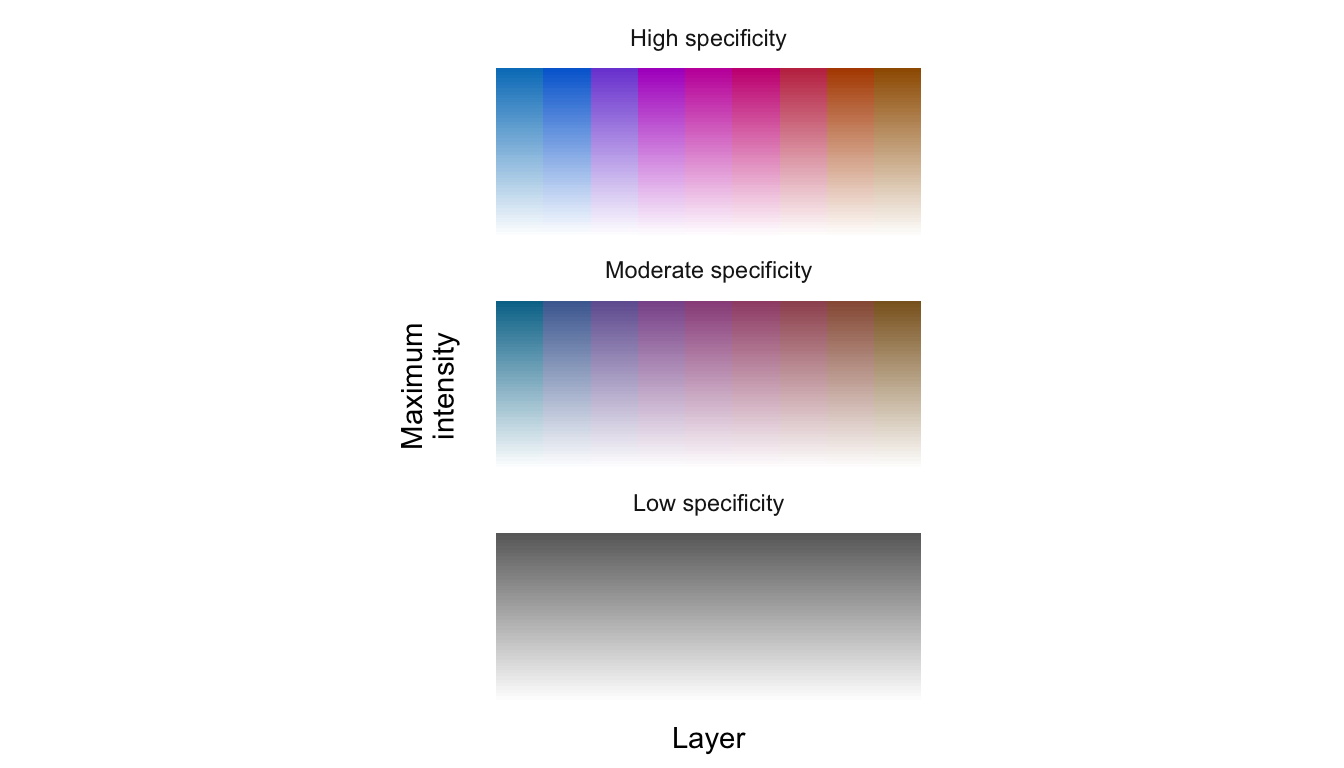
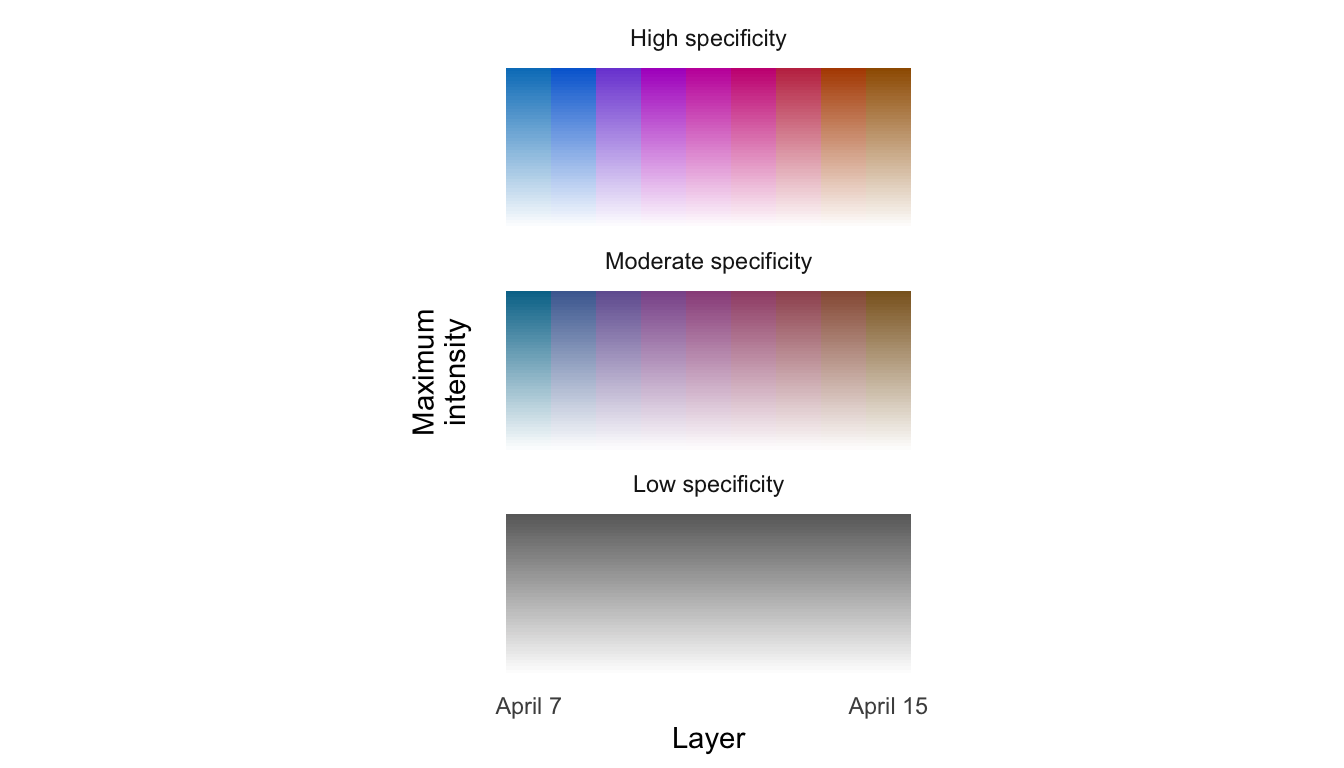
JS edits

diff --git a/docs/articles/tuning.html b/docs/articles/tuning.html
@@ -93,8 +93,7 @@
 <div id="map-monthly-distributions-of-a-species-in-the-southern-hemisphere" class="section level3">
 <h3 class="hasAnchor">
 <a href="#map-monthly-distributions-of-a-species-in-the-southern-hemisphere" class="anchor"></a>Map monthly distributions of a species in the southern hemisphere</h3>
-<p>The sample Field Sparrow data included with <code>colorist</code> describe monthly occurrence probabilities for a partially migratory bird in the eastern United States, but we are going to pretend that they describe monthly distributions of a species that occurs in temperate regions of the southern hemisphere. Our goal is to change the assignments of hues to months so that they better indicate the seasons experienced by our hypothetical species.</p>
-<p>To begin, we calculate distribution metrics with <code><a href="../reference/metrics_pull.html">metrics_pull()</a></code> and adopt the default HCL-based color palette provided by <code><a href="../reference/palette_timecycle.html">palette_timecycle()</a></code>. Then we visualize our monthly distribution data using the <code><a href="../reference/map_multiples.html">map_multiples()</a></code> function.</p>
+<p>The sample Field Sparrow data included with <code>colorist</code> describe monthly occurrence probabilities for a partially migratory bird in the eastern United States. We can explore the data visually by calculating distribution metrics with <code><a href="../reference/metrics_pull.html">metrics_pull()</a></code>, adopting the default HCL-based color palette provided by <code><a href="../reference/palette_timecycle.html">palette_timecycle()</a></code>, and mapping each of the data layers using the <code><a href="../reference/map_multiples.html">map_multiples()</a></code> function.</p>
 <div class="sourceCode" id="cb1"><html><body><pre class="r"><span class="fu"><a href="https://rdrr.io/r/base/library.html">library</a></span>(<span class="no">colorist</span>)
 <span class="fu"><a href="https://rdrr.io/r/base/library.html">library</a></span>(<span class="no">ggplot2</span>)
 <span class="fu"><a href="https://rdrr.io/r/base/library.html">library</a></span>(<span class="no">RColorBrewer</span>)
@@ -104,8 +103,9 @@
 <span class="no">p1</span> <span class="kw">&lt;-</span> <span class="fu"><a href="../reference/palette_timecycle.html">palette_timecycle</a></span>(<span class="fl">12</span>)
 <span class="fu"><a href="../reference/map_multiples.html">map_multiples</a></span>(<span class="no">m1</span>, <span class="no">p1</span>, <span class="kw">labels</span> <span class="kw">=</span> <span class="fu"><a href="https://rdrr.io/r/base/names.html">names</a></span>(<span class="no">fiespa_occ</span>), <span class="kw">ncol</span> <span class="kw">=</span> <span class="fl">4</span>)</pre></body></html></div>
 <p><img src="tuning_files/figure-html/hues-fiespa-default-1.png" width="\textwidth" style="display: block; margin: auto;"></p>
-<p>The default settings for <code><a href="../reference/palette_timecycle.html">palette_timecycle()</a></code> produce a palette of hues that begins at “blue” in January and moves progressively toward “green”, “yellow”, and “red”, before returning toward “blue”. These hues align with our general sense of seasonal progression in northern temperate regions, where we move from winter toward spring, summer, fall, and back to winter. The timing of the seasons does not make sense for a species that occurs in southern temperate regions, however.</p>
-<p>We can change the alignment of hues and months in <code><a href="../reference/palette_timecycle.html">palette_timecycle()</a></code>, while retaining the sequence of seasons, by adjusting the <code>start_hue</code> argument. All we have to do is specify a value of 60 rather than accept the default value of 240. This change tells <code><a href="../reference/palette_timecycle.html">palette_timecycle()</a></code> to begin assigning hues to layers on the opposite side of the color wheel, 180 degrees, and six months away, from the default setting.</p>
+<p>The default settings for <code><a href="../reference/palette_timecycle.html">palette_timecycle()</a></code> produce a palette of hues that begins at “blue” in January and moves progressively toward “green”, “yellow”, and “red”, before returning toward “blue”. These hues align with our general sense of seasonal progression in northern temperate regions, where we move from “winter” toward “spring”, “summer”, “fall”, and back to “winter”.</p>
+<p>Now, let us assume that our bird species actually occurs in temperate regions of the southern hemisphere. The timing of seasonal progression is offset by approximately six months from northern temperate regions. Clearly, the default settings in <code><a href="../reference/palette_timecycle.html">palette_timecycle()</a></code> are no longer appropriate because the hues indicating particular seasons are not aligned with the correct months.</p>
+<p>To realign seasonal hues and months for a southern temperate species, we need to modify the <code>start_hue</code> argument in <code><a href="../reference/palette_timecycle.html">palette_timecycle()</a></code>. So, we specify a value of 60 rather than accept the default value of 240. This change tells <code><a href="../reference/palette_timecycle.html">palette_timecycle()</a></code> to begin assigning hues to layers on the opposite side of the color wheel, 180 degrees, and six months away, from the default setting.</p>
 <div class="sourceCode" id="cb2"><html><body><pre class="r"><span class="co"># change palette start position on color wheel</span>
 <span class="no">p1_custom</span> <span class="kw">&lt;-</span> <span class="fu"><a href="../reference/palette_timecycle.html">palette_timecycle</a></span>(<span class="fl">12</span>, <span class="kw">start_hue</span> <span class="kw">=</span> <span class="fl">60</span>)
 
@@ -122,16 +122,14 @@
 <div class="sourceCode" id="cb3"><html><body><pre class="r"><span class="co"># pull metrics, generate default palette, map layers</span>
 <span class="no">m2</span> <span class="kw">&lt;-</span> <span class="fu"><a href="../reference/metrics_pull.html">metrics_pull</a></span>(<span class="no">elephant_ud</span>)
 <span class="no">p2</span> <span class="kw">&lt;-</span> <span class="fu"><a href="../reference/palette_set.html">palette_set</a></span>(<span class="fl">2</span>)
-<span class="fu"><a href="../reference/map_multiples.html">map_multiples</a></span>(<span class="no">m2</span>, <span class="no">p2</span>, <span class="kw">labels</span> <span class="kw">=</span> <span class="fu"><a href="https://rdrr.io/r/base/c.html">c</a></span>(<span class="st">"'Purple People-eater'"</span>,
-                                 <span class="st">"'Jolly Green Giant'"</span>), <span class="kw">ncol</span> <span class="kw">=</span> <span class="fl">2</span>)</pre></body></html></div>
+<span class="fu"><a href="../reference/map_multiples.html">map_multiples</a></span>(<span class="no">m2</span>, <span class="no">p2</span>, <span class="kw">labels</span> <span class="kw">=</span> <span class="fu"><a href="https://rdrr.io/r/base/c.html">c</a></span>(<span class="st">"'Purple People-eater'"</span>, <span class="st">"'Jolly Green Giant'"</span>), <span class="kw">ncol</span> <span class="kw">=</span> <span class="fl">2</span>)</pre></body></html></div>
 <p><img src="tuning_files/figure-html/hues-elephant-default-1.png" width="\textwidth" style="display: block; margin: auto;"></p>
-<p>To communicate a coherent signal of identity across the labels and the maps, we need to override the default hue settings in <code><a href="../reference/palette_set.html">palette_set()</a></code>. We can achieve this by providing the <code>custom_hues</code> argument with a vector of integers indicating where on a rainbow color wheel the function should sample hues. “Purple” hues are found near 280 and “greens” are found near 120, so we specify those values in the appropriate order and visualize our adjustments.</p>
+<p>To communicate a consistent signal of identity across the labels and the maps, we need to override the default hue settings in <code><a href="../reference/palette_set.html">palette_set()</a></code>. We can achieve this by providing the <code>custom_hues</code> argument with a vector of integers indicating where on a rainbow color wheel the function should sample hues. “Purple” hues are found near 280 and “greens” are found near 120, so we specify those values in the appropriate order and visualize our adjustments.</p>
 <div class="sourceCode" id="cb4"><html><body><pre class="r"><span class="co"># use custom_hues argument to make specific hue choices</span>
 <span class="no">p2_custom</span> <span class="kw">&lt;-</span> <span class="fu"><a href="../reference/palette_set.html">palette_set</a></span>(<span class="fl">2</span>, <span class="kw">custom_hues</span> <span class="kw">=</span> <span class="fu"><a href="https://rdrr.io/r/base/c.html">c</a></span>(<span class="fl">280</span>, <span class="fl">120</span>))
 
 <span class="co"># map layers</span>
-<span class="fu"><a href="../reference/map_multiples.html">map_multiples</a></span>(<span class="no">m2</span>, <span class="no">p2_custom</span>, <span class="kw">labels</span> <span class="kw">=</span> <span class="fu"><a href="https://rdrr.io/r/base/c.html">c</a></span>(<span class="st">"'Purple People-eater'"</span>,
-                                        <span class="st">"'Jolly Green Giant'"</span>), <span class="kw">ncol</span> <span class="kw">=</span> <span class="fl">2</span>)</pre></body></html></div>
+<span class="fu"><a href="../reference/map_multiples.html">map_multiples</a></span>(<span class="no">m2</span>, <span class="no">p2_custom</span>, <span class="kw">labels</span> <span class="kw">=</span> <span class="fu"><a href="https://rdrr.io/r/base/c.html">c</a></span>(<span class="st">"'Purple People-eater'"</span>, <span class="st">"'Jolly Green Giant'"</span>), <span class="kw">ncol</span> <span class="kw">=</span> <span class="fl">2</span>)</pre></body></html></div>
 <p><img src="tuning_files/figure-html/hues-elephant-custom-1.png" width="\textwidth" style="display: block; margin: auto;"></p>
 <p>The result: cognitive harmony.</p>
 </div>
@@ -139,7 +137,7 @@
 <div id="change-the-relationship-between-intensity-and-opacity" class="section level2">
 <h2 class="hasAnchor">
 <a href="#change-the-relationship-between-intensity-and-opacity" class="anchor"></a>2. Change the relationship between intensity and opacity</h2>
-<p>The second type of adjustment we explore involves changing the relationship between intensity and opacity values, a modification that can be made in the <code><a href="../reference/map_single.html">map_single()</a></code> and <code>map_multiple()</code> functions.</p>
+<p>The second type of adjustment we explore involves changing the relationship between intensity and opacity values, a modification that can be made in the <code><a href="../reference/map_single.html">map_single()</a></code> and <code><a href="../reference/map_multiples.html">map_multiples()</a></code> functions.</p>
 <p>There are a variety of contexts in which it is difficult to visualize important information about populations or individuals because intensity values (i.e., relative abundance, occurrence, or probability density values) have unusual distributions. For example, it can be difficult to indicate the extent to which a species or individual uses an entire landscape when changing availability of resources or inconsistent social interaction causes an extremely skewed distribution of intensity values. Conversely, it can be a challenge to indicate areas of particular importance to species or individuals when they appear at first glance to use an entire landscape relatively evenly.</p>
 <p>Cartographers have developed an array of strategies for modifying how data values are represented in maps, many of which involve binning or transforming data. While there is no right “answer” to the “problem” of visualizing data with an unusual distribution, <code>colorist</code> functions focus on transforming data using a slightly modified <code>scales::modulus()</code> transformation. This decision stems from one of our original goals for the <code>colorist</code> package: to visualize continuous variation in intensity values through space and time without truncating or binning values.</p>
 <p>In <code>colorist</code>, the relationship between intensity and opacity values is controlled with a <code>lambda_i</code> argument in the <code><a href="../reference/map_multiples.html">map_multiples()</a></code> and <code><a href="../reference/map_single.html">map_single()</a></code> functions. The default setting of <code>lambda_i = 0</code> prescribes a linear relationship between intensity and opacity values. Specifying negative values for <code>lambda_i</code> increases the opacity and apparent intensity of cells with moderate intensity values, giving them greater visual weight. Specifying positive values for <code>lambda_i</code> reduces the opacity and apparent intensity of cells with moderate intensity values, thus highlighting cells with high intensity values.</p>
@@ -171,7 +169,7 @@
 <span class="no">p3</span> <span class="kw">&lt;-</span> <span class="fu"><a href="../reference/palette_timeline.html">palette_timeline</a></span>(<span class="no">fisher_ud</span>)
 <span class="fu"><a href="../reference/map_multiples.html">map_multiples</a></span>(<span class="no">m3</span>, <span class="no">p3</span>, <span class="kw">labels</span> <span class="kw">=</span> <span class="fu"><a href="https://rdrr.io/r/base/names.html">names</a></span>(<span class="no">fisher_ud</span>))</pre></body></html></div>
 <p><img src="tuning_files/figure-html/opacity-fisher-default-1.png" width="\textwidth" style="display: block; margin: auto;"></p>
-<p>It is clear that the Fisher is using different parts of its territory to different degrees, within and among nights, but if we want to more clearly understand and illustrate which areas were used most intensively we need to change the relationship between intensity and opacity values. In order to highlight intensively used cells, we provide the <code>lambda_i</code> argument in <code><a href="../reference/map_multiples.html">map_multiples()</a></code> with a positive number rather than accept the default value of 0.</p>
+<p>It is clear that the Fisher is using different parts of its territory to different degrees within and among nights, but if we want to more clearly understand and illustrate which areas were used most intensively we need to change the relationship between intensity and opacity values. In order to highlight intensively used cells, we provide the <code>lambda_i</code> argument in <code><a href="../reference/map_multiples.html">map_multiples()</a></code> with a positive number rather than accept the default value of 0.</p>
 <div class="sourceCode" id="cb8"><html><body><pre class="r"><span class="co"># map layers with adjustment to lambda_i</span>
 <span class="fu"><a href="../reference/map_multiples.html">map_multiples</a></span>(<span class="no">m3</span>, <span class="no">p3</span>, <span class="kw">labels</span> <span class="kw">=</span> <span class="fu"><a href="https://rdrr.io/r/base/names.html">names</a></span>(<span class="no">fisher_ud</span>), <span class="kw">lambda_i</span> <span class="kw">=</span> <span class="fl">12</span>)</pre></body></html></div>
 <p><img src="tuning_files/figure-html/opacity-fisher-custom-1.png" width="\textwidth" style="display: block; margin: auto;"></p>
@@ -182,8 +180,8 @@
 <h2 class="hasAnchor">
 <a href="#change-the-relationship-between-specificity-and-chroma" class="anchor"></a>3. Change the relationship between specificity and chroma</h2>
 <p>The third type of adjustment we explore involves changing the relationship between specificity and chroma values, a modification that can be made in the <code><a href="../reference/map_single.html">map_single()</a></code> function. In mechanical terms, the transformation is nearly identical to the one used for changing the relationship between intensity and opacity values. The visual and narrative impacts are quite different, however.</p>
-<p>Remember that specificity values indicate whether a cell contains similar intensities (low specificity) or dissimilar intensities (high specificity) across raster layers and that variation in specificity values is indicated by varying the chroma of cell colors. Cells with low specificity values are indicated using low chroma values and appear “gray”. Cells with high specificity values are indicated using high chroma values and appear brightly colored.</p>
-<p>Depending on the nature of the data contained in a <code>Rasterstack</code>, specificity values can take on a variety of meanings, including, seasonal use of a cell, ephemeral use of a cell, or differential use of a cell by multiple species or individuals. Thus, changing the relationship between specificity and chroma values can have important consequences for how viewers interpret patterns of spatiotemporal overlap among raster layers.</p>
+<p>Remember that specificity values indicate the degree to which intensity values are unevenly distributed across raster layers and that variation in specificity values is indicated by varying the chroma of cell colors. Low specificity values indicate intensity values are similar in all layers of a cell, are linked to low chroma values, and appear “gray”. High specificity values indicate intensity values are concentrated in a single layer, are linked to high chroma values, and appear as “bright” colors.</p>
+<p>Depending on the nature of the data contained in a <code>Rasterstack</code>, specificity values can take on a variety of meanings, including, seasonal use of a cell, ephemeral use of a cell, or differential use of a cell by multiple species or individuals. Changing the relationship between specificity and chroma values can have important consequences for how viewers interpret patterns of spatiotemporal overlap among raster layers.</p>
 <p>The relationship between specificity and chroma values is controlled with a <code>lambda_s</code> argument in the <code><a href="../reference/map_single.html">map_single()</a></code> function. Again, the default setting of 0 prescribes a linear relationship between specificity and chroma values, analogous to the default relationship between intensity and opacity. Specifying negative values for <code>lambda_s</code> increases the chroma and apparent specificity values in cells with moderate specificity values, making them more “colorful“. Specifying positive values for <code>lambda_s</code> reduces the chroma and apparent specificity values of cells with moderate specificity values, making them more “gray“.</p>
 <div class="figure" style="text-align: center">
 <img src="tuning_files/figure-html/chroma-specificity-plot-1.png" alt="**Cell chroma as a function of specificity values and `lambda_s`.**" width="\textwidth"><p class="caption">
@@ -199,7 +197,7 @@
 <span class="no">m3_distill</span> <span class="kw">&lt;-</span> <span class="fu"><a href="../reference/metrics_distill.html">metrics_distill</a></span>(<span class="no">fisher_ud</span>)
 <span class="fu"><a href="../reference/map_single.html">map_single</a></span>(<span class="no">m3_distill</span>, <span class="no">p3</span>, <span class="kw">lambda_i</span> <span class="kw">=</span> -<span class="fl">5</span>)</pre></body></html></div>
 <p><img src="tuning_files/figure-html/chroma-fisher-default-1.png" width="\textwidth" style="display: block; margin: auto;"></p>
-<div class="sourceCode" id="cb10"><html><body><pre class="r"><span class="fu"><a href="../reference/legend_timeline.html">legend_timeline</a></span>(<span class="no">p3</span>)</pre></body></html></div>
+<div class="sourceCode" id="cb10"><html><body><pre class="r"><span class="fu"><a href="../reference/legend_timeline.html">legend_timeline</a></span>(<span class="no">p3</span>, <span class="kw">time_labels</span> <span class="kw">=</span> <span class="fu"><a href="https://rdrr.io/r/base/c.html">c</a></span>(<span class="st">"April 7"</span>, <span class="st">"April 15"</span>))</pre></body></html></div>
 <p><img src="tuning_files/figure-html/chroma-fisher-default-2.png" width="\textwidth" style="display: block; margin: auto;"></p>
 <p>The abundance of brightly colored cells indicates that the Fisher used different parts of its territory almost every night, and the different hues indicate which night each cell was used most intensively. If we want to more clearly indicate which parts of the Fisher territory were used repeatedly, we need to adjust how specificity values are represented using the <code>lambda_s</code> argument in <code><a href="../reference/map_single.html">map_single()</a></code>. To emphasize patterns of consistent use across nights we need to specify a positive number for <code>lambda_s</code>, an adjustment that decreases chroma and apparent specificity values in cells that contain moderate specificity values, making them appear more “gray“.</p>
 <div class="sourceCode" id="cb11"><html><body><pre class="r"><span class="co"># visualize metrics in a single map with adjustment to lambda_s</span>
@@ -216,7 +214,7 @@
 <span class="no">m1_distill</span> <span class="kw">&lt;-</span> <span class="fu"><a href="../reference/metrics_distill.html">metrics_distill</a></span>(<span class="no">fiespa_occ</span>)
 <span class="fu"><a href="../reference/map_single.html">map_single</a></span>(<span class="no">m1_distill</span>, <span class="no">p1</span>)</pre></body></html></div>
 <p><img src="tuning_files/figure-html/chroma-fiespa-default-1.png" width="\textwidth" style="display: block; margin: auto;"></p>
-<div class="sourceCode" id="cb13"><html><body><pre class="r"><span class="fu"><a href="../reference/legend_timecycle.html">legend_timecycle</a></span>(<span class="no">p1</span>)</pre></body></html></div>
+<div class="sourceCode" id="cb13"><html><body><pre class="r"><span class="fu"><a href="../reference/legend_timecycle.html">legend_timecycle</a></span>(<span class="no">p1</span>, <span class="kw">origin_label</span> <span class="kw">=</span> <span class="st">"Jan 1"</span>)</pre></body></html></div>
 <p><img src="tuning_files/figure-html/chroma-fiespa-default-2.png" width="\textwidth" style="display: block; margin: auto;"></p>
 <p>Cells where populations of Field Sparrows persist at approximately the same level throughout the year have low specificity values and low chroma values and appear “gray“ in our map. Cells where populations occur only seasonally have high specificity values and high chroma values and appear “colorful“ with the hue in a cell indicating the month of peak occurrence.</p>
 <p>If we want to emphasize information about when a species is most likely to be found (i.e., timing of peak occurrence) we can adjust the relationship between specificity and chroma values. We inflate the chroma and apparent specificity values for cells that contain moderate and low specificity values by providing the <code>lambda_s</code> argument with a negative number.</p>

diff --git a/docs/reference/fisher_ud.html b/docs/reference/fisher_ud.html
@@ -40,8 +40,8 @@
 
 
 <meta property="og:title" content="Fisher utilization distributions — fisher_ud" />
-<meta property="og:description" content="A RasterStack of the utilization distribution for a
-single fisher in New York state over the course of nine nights in April 2011.
+<meta property="og:description" content="A RasterStack of utilization distributions for a
+single Fisher in New York state over the course of nine nights in April 2011.
 Cell values represent the probability density that the individual was found
 at a given location between sunset and sunrise and the nine layers represent
 nine nights of data. Utilization distributions were generated using the
@@ -122,8 +122,8 @@ adehabitatHR package from GPS tracking data." />
     </div>
 
     <div class="ref-description">
-    <p>A RasterStack of the <a href='https://en.wikipedia.org/wiki/Utilization_distribution'>utilization distribution</a> for a
-single fisher in New York state over the course of nine nights in April 2011.
+    <p>A RasterStack of <a href='https://en.wikipedia.org/wiki/Utilization_distribution'>utilization distributions</a> for a
+single Fisher in New York state over the course of nine nights in April 2011.
 Cell values represent the probability density that the individual was found
 at a given location between sunset and sunrise and the nine layers represent
 nine nights of data. Utilization distributions were generated using the

diff --git a/docs/reference/elephant_ud.html b/docs/reference/elephant_ud.html
@@ -40,7 +40,7 @@
 
 
 <meta property="og:title" content="African Elephant utilization distributions — elephant_ud" />
-<meta property="og:description" content="A RasterStack of the utilization distribution for two
+<meta property="og:description" content="A RasterStack of utilization distributions for two
 individual African Elephants in Etosha National Park in 2011. Cell values
 represent the probability density that an elephant was found at a given
 location within the year and the two layers contain data for the two
@@ -124,7 +124,7 @@ visualization purposes." />
     </div>
 
     <div class="ref-description">
-    <p>A RasterStack of the <a href='https://en.wikipedia.org/wiki/Utilization_distribution'>utilization distribution</a> for two
+    <p>A RasterStack of <a href='https://en.wikipedia.org/wiki/Utilization_distribution'>utilization distributions</a> for two
 individual African Elephants in Etosha National Park in 2011. Cell values
 represent the probability density that an elephant was found at a given
 location within the year and the two layers contain data for the two

diff --git a/docs/news/index.html b/docs/news/index.html
@@ -120,7 +120,7 @@
 </h1>
 <ul>
 <li>Two vignettes added</li>
-<li>Adding an additional lambda parameter to control specificity</li>
+<li>Added an additional lambda parameter to map_single function to control visualization of specificity values</li>
 <li>Added custom_hues argument to palette_set function</li>
 <li>Bug fixes</li>
 </ul>
